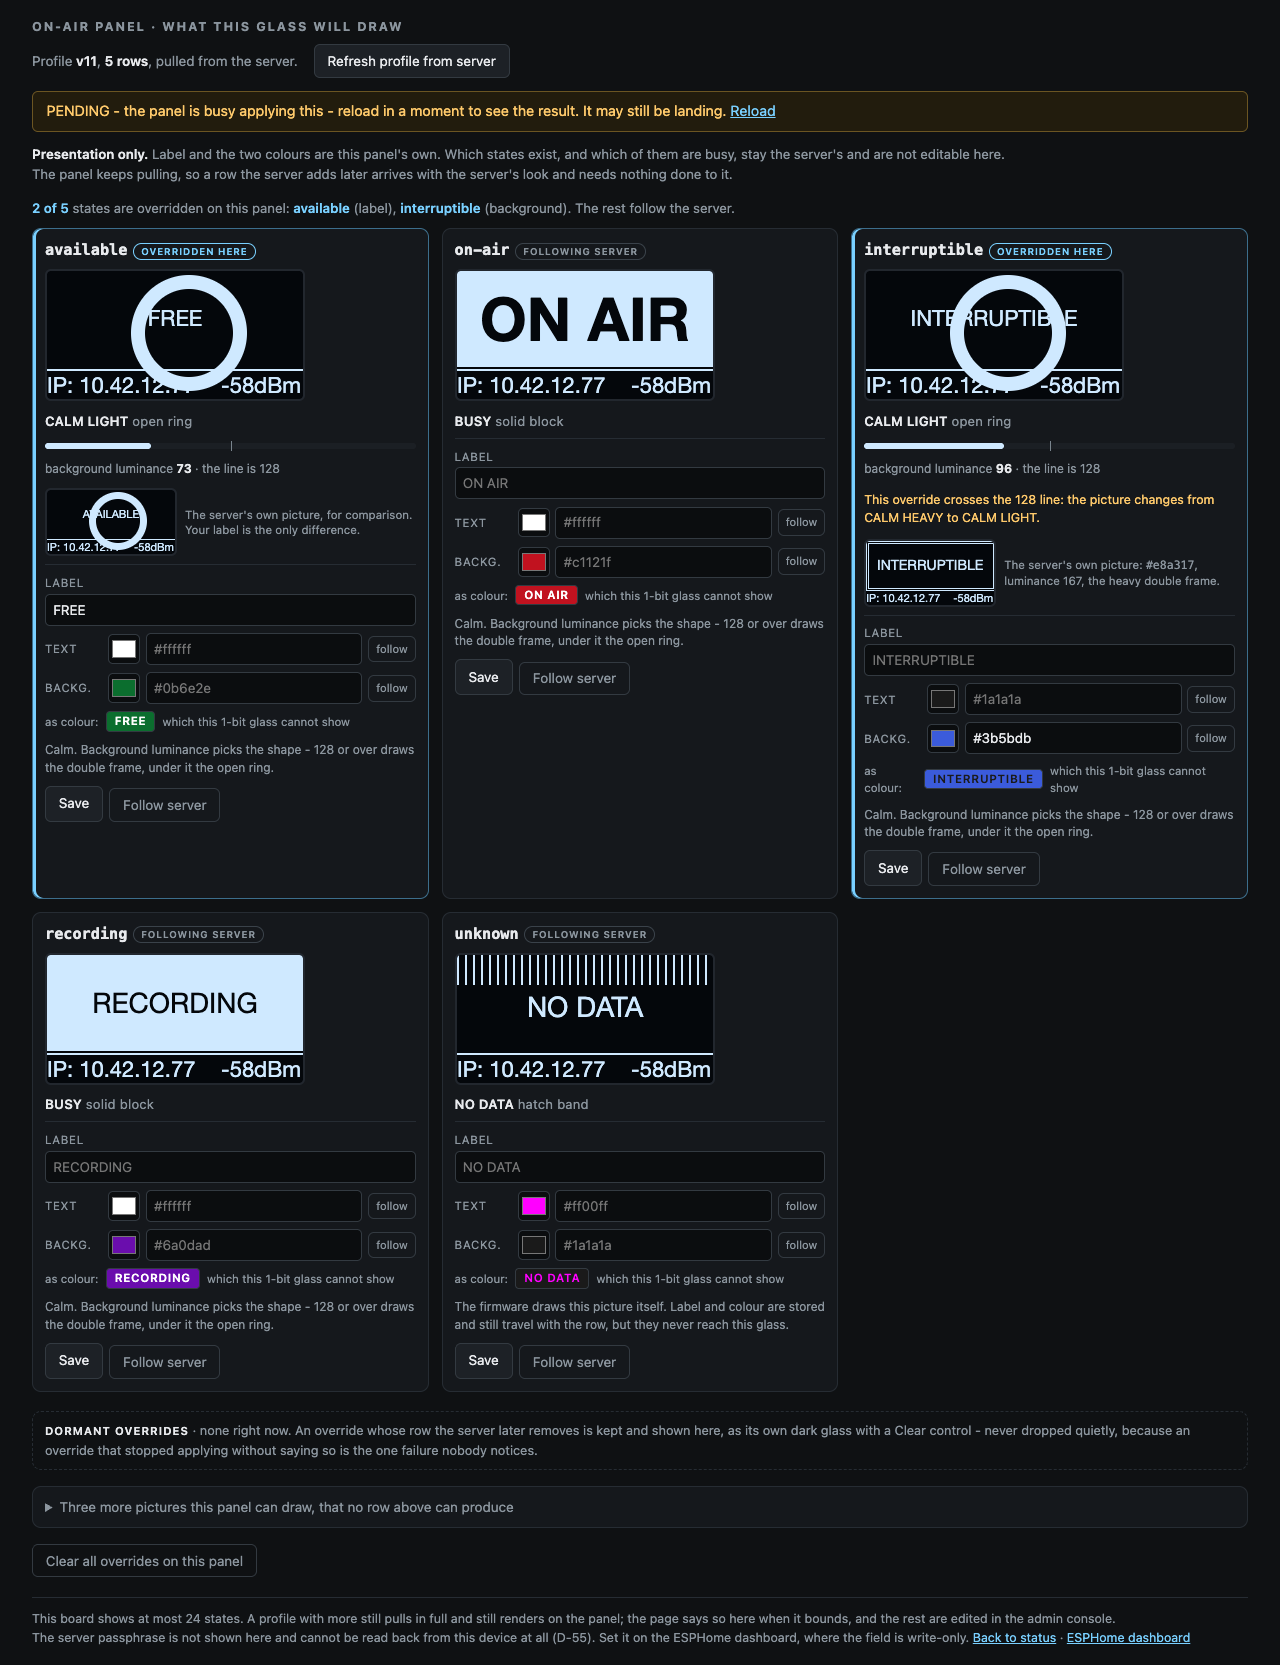
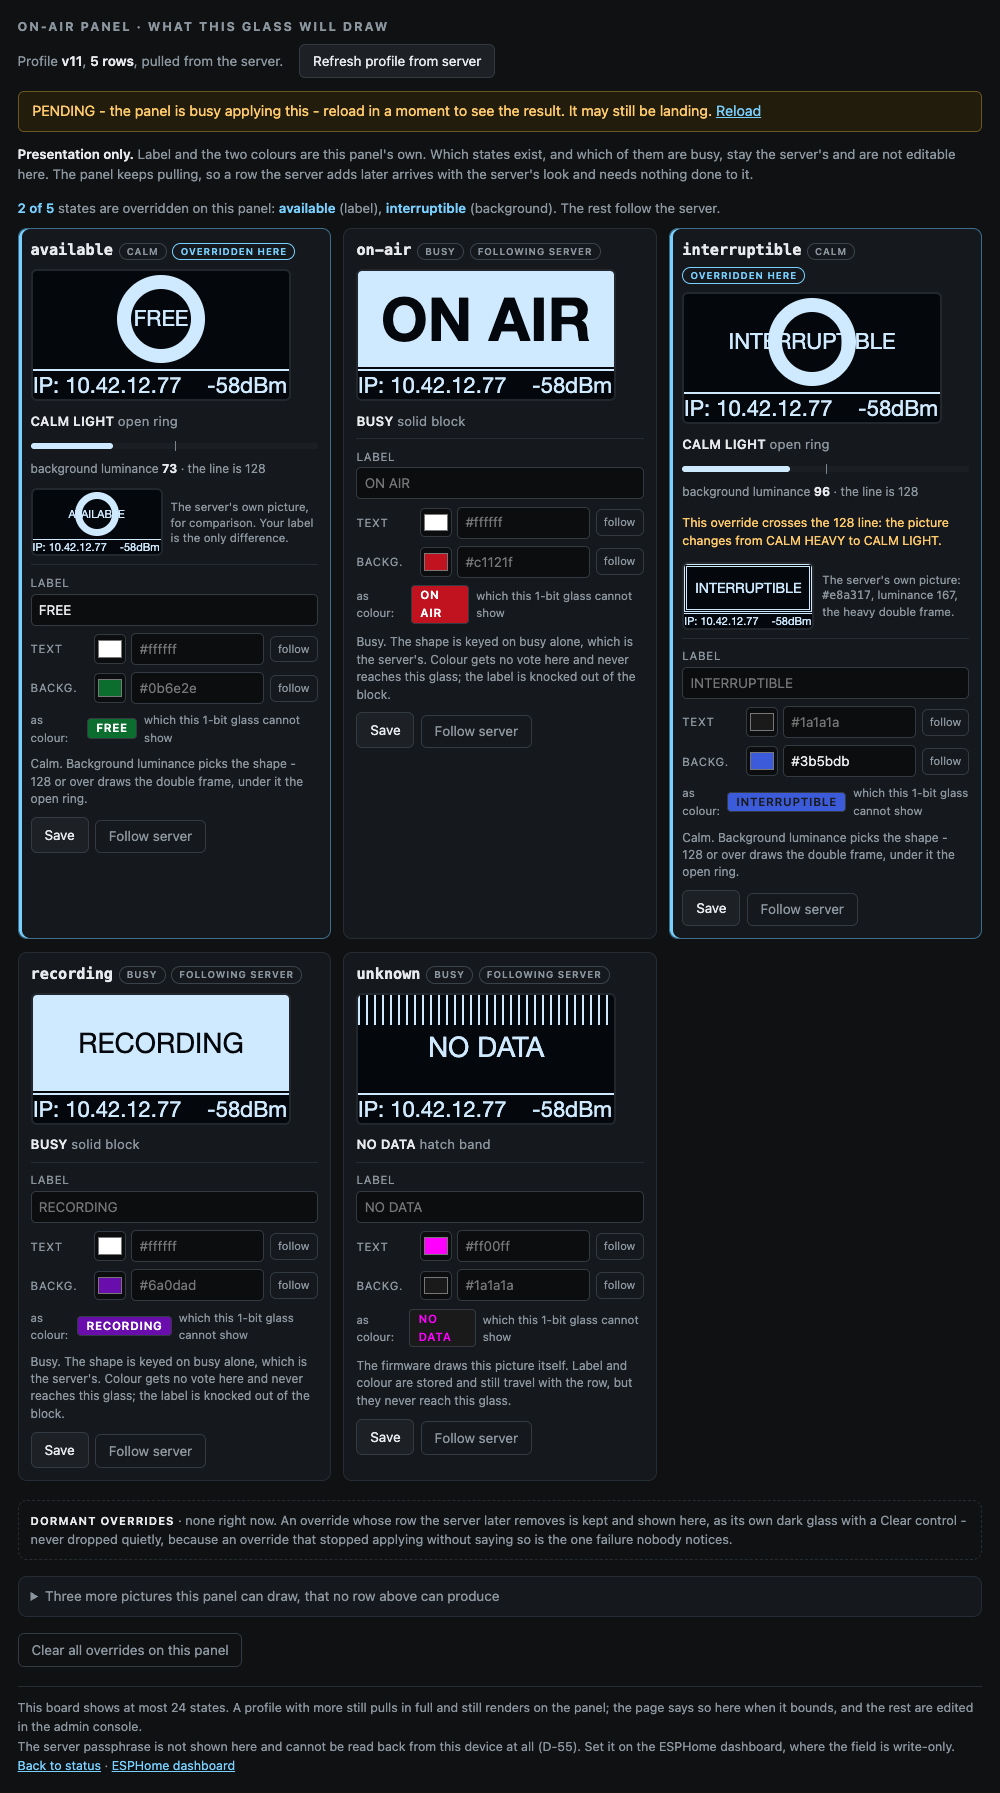
Correct D-71: A's geometry was wrong when it was judged
The design workflow's audit stage finished after the judging had already run against the
files, so the judges - and my D-71 write-up, and the screenshot I sent Rocket - all repeated
A's own claim that its shapes were pixel-exact. They were not. The audit found it by
rendering each glass at 1:1 and decoding the PNG pixel by pixel instead of looking at it.

`*{box-sizing:border-box}` does not match pseudo-elements and box-sizing is not inherited, so
every .g::before fell back to content-box. The open ring rendered 58px across centred at
(70.5,30.5) instead of 44px at (64,24), putting lit pixels at y=52..60 - inside the
diagnostics band the firmware reserves and never overdraws. The double frame rendered 130x50,
lost its right outer edge to overflow:hidden, and merged its bottom edge into the band rule.
One selector fixes it: *,::before,::after.

Two more, both on the graft path: the colour mirror was seeded with the server's value and
copied it on any input event, so opening the picker - or previewing and cancelling, which
Firefox fires input for and macOS NSColorPanel gives no cancel from - pinned the server's
current value as a permanent override. That is D-68's trap through a third door; an unnamed
picker was necessary and not sufficient. And the per-row "Follow server" button sat in the
same form as the pattern-validated hex fields without formnovalidate, so a half-typed hex
blocked the one control that puts the row back.
[…]

Changed region(s): [[0.0, 0.0, 0.961, 0.5309], [0.0, 0.5309, 0.93, 0.9994], [0.93, 0.9369, 0.961, 0.9682]]

diff --git a/docs/design/esp32-config-2026-08-26/variants/A-glass-board.html b/docs/design/esp32-config-2026-08-26/variants/A-glass-board.html
@@ -290,19 +290,35 @@ BYTES: html=10785 css=8589 js=2154 total=21528
   only proven to 24.7 KB. See C++ COST for the two ways down and why the number has to be
   measured before this ships.
 
-COLOUR TRAP: solved by giving the native picker no name. Each colour is a pair - an
-<input type=color> carrying NO name attribute, and beside it the text input that actually
+COLOUR TRAP: solved in two parts. (1) The native picker has no name. Each colour is a pair -
+an <input type=color> carrying NO name attribute, and beside it the text input that actually
 carries name=color / name=bgcolor, with pattern="#[0-9a-fA-F]{6}" and the server's value as
 its placeholder. The picker is a viewfinder that writes into the text input; it is
 structurally incapable of posting anything, with or without JavaScript, so it can never turn
 "follow the server" into "override to black". Empty text field still means follow the
-server, exactly as today. The "follow" button beside each field blanks the text input and
+server, exactly as today.
+(2) The mirror is guarded, because part 1 alone is not enough. The picker is SEEDED with the
+server's value, so an unguarded mirror would write that value into the posting field on any
+input event - and browsers whose colour dialog previews live (Firefox on Win/Linux) fire
+input during a preview the operator then cancels, while macOS NSColorPanel has no cancel at
+all. So the handler compares against the server value and writes '' - follow the server -
+when they match, and does not mark the card dirty when nothing changed. Picking the server's
+own colour on a row that HAS an override therefore clears the override rather than pinning
+it, which is the same thing the "follow" button does. That button blanks the text input and
 re-syncs the picker to the server's value; the row's "Follow server" button is the real
-action=clear submit. VERIFIED in headless Chrome on this file: all ten colour pickers report
-name=null; the interruptible row posts id/label/color/bgcolor and nothing else; after
-"follow" it posts bgcolor=""; a row with no override posts label="" color="" bgcolor="";
-there is no element named busy anywhere on the page; there are zero src/href/img/iframe
-references, so nothing is fetched.
+action=clear submit, and it carries formnovalidate so a half-typed hex ("6a0dad", no #) in
+the same form cannot block the one control that puts the row back. Save deliberately keeps
+validation.
+VERIFIED in headless Chrome on this file: all ten colour pickers report name=null; a row
+with no override posts label="" color="" bgcolor=""; firing input on an untouched picker
+with its own seeded value leaves color="" and leaves the card NOT dirty; a real change posts
+color="#ff0000" and marks it dirty; picking the server value back returns it to color="";
+on the interruptible row (bgcolor override #3b5bdb, server #e8a317) picking #e8a317 posts
+bgcolor=""; after "follow" it posts bgcolor="" and the picker resyncs to #e8a317; with
+"6a0dad" typed into the recording row, form.checkValidity() is false, Save is blocked by the
+browser (invalid event on bgcolor) and Clear still submits action=clear. There is no element
+named busy anywhere on the page; there are zero src/href/img/iframe references, so nothing
+is fetched.
 
 NO-JS: everything the page exists to do still works. All five miniatures, the shapes, the
 label text, the label font size (30px bold at <=8 characters, 14px above - and 11px in the
@@ -320,10 +336,11 @@ re-derives it from the same numbers.
 C++ COST: moderate, with one honest problem.
   EASY: a whole glass is <i class=g data-shape=N><b>LABEL</b><s></s></i> - about 62 bytes,
   one append, no per-shape branching in the emitter. Every primitive is a CSS ::before keyed
-  on [data-shape]: the double frame is one 1px border plus a two-layer inset box-shadow
-  (verified to land lit pixels at x=2..3/125..126 and y=2..3/45..46, which is exactly
-  rectangle(2,2,124,44)); the open ring is one 7px border on a 44px circle at (42,2), which
-  is filled_circle(64,24,22) minus filled_circle(64,24,15); the hatch is a
+  on [data-shape]. All of these depend on border-box sizing reaching pseudo-elements, which
+  `*` alone does NOT do - the selector list is `*,::before,::after`, and getting that wrong
+  silently inflated the ring to 58px and pushed it into the reserved band. The double frame
+  is one 1px border plus a two-layer inset box-shadow; the open ring is one 7px border on a
+  44px box at (42,2); the hatch is a
   repeating-linear-gradient at the same 4px pitch. Text drawn COLOR_ON over a lit shape
   disappears for free because both are var(--lit), which is what the real panel does when it
   ORs pixels. The diagnostics band is one empty <s>, with the IP and dBm strings injected
@@ -350,7 +367,31 @@ C++ COST: moderate, with one honest problem.
   ALSO: the miniature uses Roboto if the operator's machine has it and Arial/Helvetica
   otherwise - no web font is fetched, so on a machine without Roboto the glass text is
   metrically close but not identical to the panel's. The shapes, coordinates and font SIZES
-  are exact.
+  are as stated in PIXELS below - exact for every shape except a 1px shortfall on the ring's
+  far edge, which is called out there rather than glossed.
+
+PIXELS: the shape claims above are not eyeballed. Each glass was rendered at 1:1 from this
+file's own <style> in headless Chrome, screenshotted at 128x64, and the PNG decoded pixel by
+pixel; a pixel counts as lit if it is close to var(--lit). Measured, against
+firmware/configs/elegoo-esp32.yaml:
+  shape 1 CALM HEAVY   col x=20 lit y=[0, 2, 45, 47]; row y=24 lit x=[0, 2, 125, 127]
+                       = rectangle(0,0,128,48) + rectangle(2,2,124,44), yaml:653-654. Exact.
+  shape 2 CALM LIGHT   row y=24 lit x=[42..48, 79..85]; col x=64 lit y=[2..8, 39..45]
+                       vs filled_circle(64,24,22) minus filled_circle(64,24,15), yaml:659-660.
+                       Ring THICKNESS is 7px and the origin is (42,2), both exact; the outer
+                       span is 44px where the firmware's is 45 (2r+1), so the ring is one
+                       pixel short on its right and bottom edge. A CSS box has an even
+                       extent and cannot centre on a pixel; 44 was chosen over 46 so the
+                       shape never grows past the firmware's own footprint.
+  shape 0 BUSY         col x=64 lit y=[0..47]; row y=24 lit x=[0..127]
+                       = filled_rectangle(0,0,128,48). Exact.
+  shape 3 NO DATA      col x=0 lit y=[0..14]; row y=7 lit x=[0,4,8,12,...] - 4px pitch. Exact.
+  shape 4 UNKNOWN KEY  col x=64 lit y=[0..15, 40..47] = the 16px header block plus the
+                       hatch at y=40..47. Exact.
+  RESERVED BAND: with the <s> removed, shapes 0-4 put ZERO lit pixels at or below y=49. That
+  is the property that matters - yaml:571 declares y>=49 reserved for diagnostics and never
+  overdrawn - and it is checked per shape, not assumed. With the <s> present the only lit
+  rows below the block are y=49 (the band's own rule) and y=53..60 (the IP and dBm text).
 
 GIVES UP:
   - Byte budget. See above. This is the expensive variation, and the picture is what it

diff --git a/CONTEXT.md b/CONTEXT.md
@@ -2381,6 +2381,41 @@ else (state, light control, API) lives on the receiver.
   trusts it, and the two entrants that scored best on truthfulness are exactly the two that
   went and checked.
 
+  **CORRECTION, same day, before implementation.** The sentence above calling A "font-exact
+  on every branch" repeated A's own claim, and the judges repeated it too. **A's geometry was
+  wrong when it was judged, and I screenshotted and shipped that version to Rocket.** The
+  design workflow's audit stage finished *after* the judging had already run against the
+  files, and it found the defect by rendering each glass at 1:1 and decoding the PNG pixel by
+  pixel rather than by looking:
+
+  - **`*{box-sizing:border-box}` does not match pseudo-elements**, and `box-sizing` is not
+    inherited. Every `.g::before` therefore fell back to `content-box`, so the open ring
+    rendered **58 px across centred at (70.5, 30.5)** instead of 44 px at (64, 24), and put
+    lit pixels at **y=52..60 - inside the diagnostics band the firmware reserves and never
+    overdraws**. The double frame rendered 130x50, losing its right outer edge to
+    `overflow:hidden` and merging its bottom edge into the band rule. The fix is one
+    selector: `*,::before,::after{box-sizing:border-box}`, re-verified with the same pixel
+    harness.
+  - A's colour mirror was **seeded with the server's value and copied it unconditionally on
+    any `input` event**, so merely opening the picker - or previewing and cancelling, which
+    Firefox fires `input` for and macOS NSColorPanel offers no cancel from - pinned the
+    server's current value as a permanent override. This is D-68's trap entered through a
+    third door: the picker was correctly unnamed, and that was not sufficient.
+  - A's per-row "Follow server" button sat inside the same form as the `pattern`-validated
+    hex fields with no `formnovalidate`, so a half-typed hex blocked **the one control that
+    puts the row back**.
+
+  **All three land on the shipped page, because D-71 grafts A's emitter.** The box-sizing
+  defect in particular would have gone into the firmware as a glass that overdraws the
+  reserved band - a miniature claiming to be the panel while drawing something the panel
+  cannot. The graft carries the *repaired* geometry, the guarded mirror that writes `''`
+  when the picked colour equals the server's, and `formnovalidate` on every clear control.
+
+  **The process lesson is the reusable part:** the judging read files that a repair stage was
+  still writing. Screenshot and judge against a frozen artifact, or wait for the whole
+  pipeline, because "verified" from a designer about its own work is a claim, and the pixel
+  harness is what turned three of those claims over.
+
   Grafted from the runners-up: C's counting pass, which also hands `reserve()` an **exact**
   size instead of a worst-case guess; C's server-vs-panel miniature pair on flipped rows;
   C's PENDING wording, the only one that says the page *body* is unconfirmed rather than
